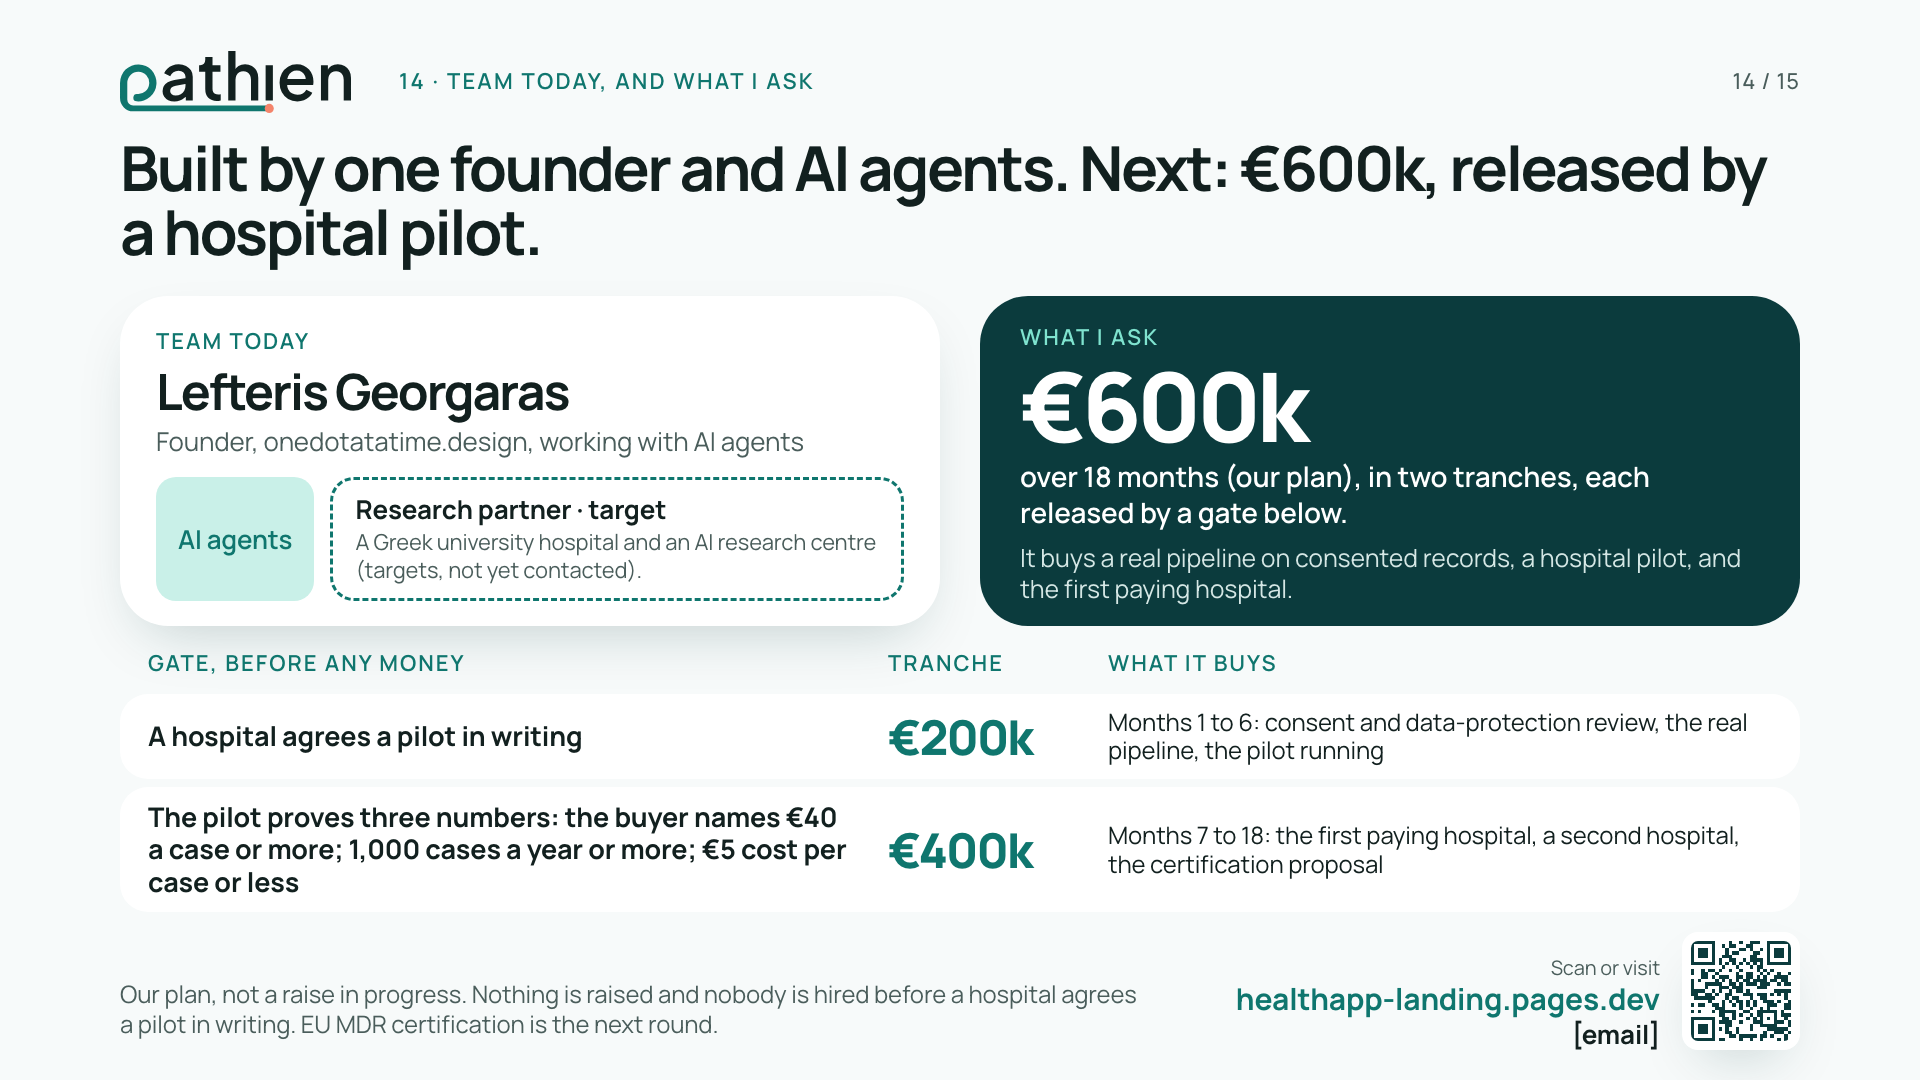
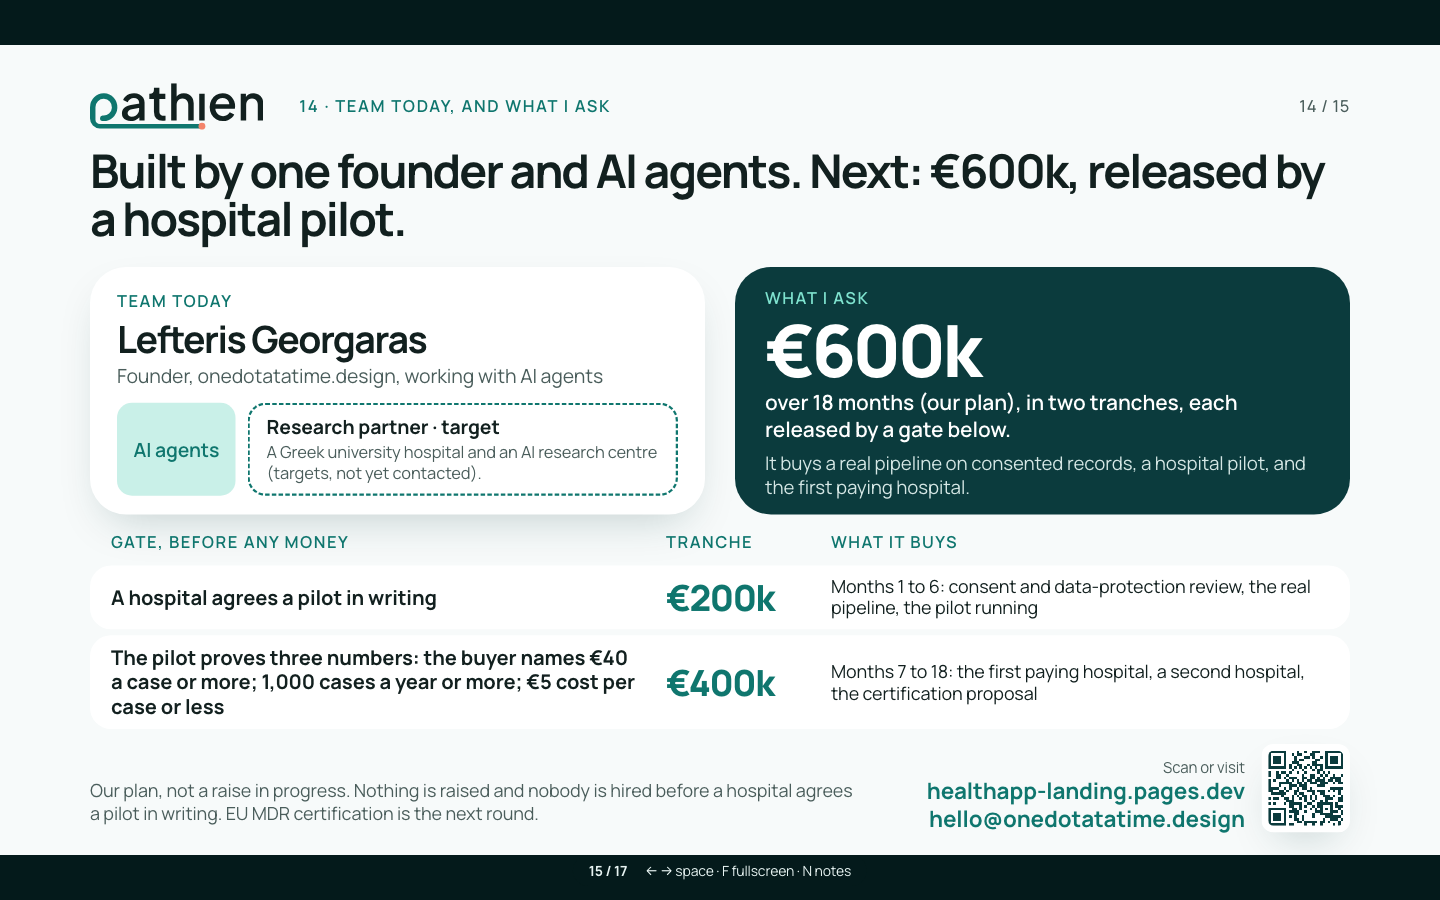
fix(landing): contact email hello@onedotatatime.design replaces [contact] and [email] (MIN-4503, MIN-4462)
Footer and Get updates mailto, slide 14 email as a mailto link, README,
landing copy, deck content, team-and-funding plan contact line,
design-screens updates band, slide-14 PNG re-shot by Pix.

Founder, 2026-11-14: "hello@onedotatatime.design".

Refs MIN-4503, MIN-4462

diff --git a/landing/src/App.tsx b/landing/src/App.tsx
@@ -5,7 +5,7 @@ import { prefersReducedMotion, useSmoothScroll } from './useSmoothScroll';
 import { Screens } from './DemoScreens';
 
 // Swap in one place. Shown as-is until the founder supplies the address; never claim the typed email is stored.
-const CONTACT_EMAIL = "[contact]";
+const CONTACT_EMAIL = "hello@onedotatatime.design";
 
 gsap.registerPlugin(ScrollTrigger);
 
@@ -283,7 +283,7 @@ export default function App() {
         <div className="wrap foot">
           <img src="/brand/pathien-lockup-white.svg" alt="Pathien" style={{ height: 32, width: "auto" }} />
           <span>Built at GenAI Summit Hackathon · Athens · Nov 2026</span>
-          <a className="btn" href="#top">[contact]</a>
+          <a className="btn" href={`mailto:${CONTACT_EMAIL}`}>{CONTACT_EMAIL}</a>
         </div>
       </footer>
     </div>

diff --git a/landing/src/deck/slides.ts b/landing/src/deck/slides.ts
@@ -342,7 +342,7 @@ export const slides: Slide[] = [
         { gate: 'The pilot proves three numbers: the buyer names €40 a case or more; 1,000 cases a year or more; €5 cost per case or less', amount: '€400k', buys: 'Months 7 to 18: the first paying hospital, a second hospital, the certification proposal' },
       ],
     },
-    contact: { label: 'Scan or visit', link: 'healthapp-landing.pages.dev', email: '[email]', qr: QR },
+    contact: { label: 'Scan or visit', link: 'healthapp-landing.pages.dev', email: 'hello@onedotatatime.design', qr: QR },
   },
   {
     id: '15', template: 'table', theme: 'air', no: '15', kicker: 'Why the money', notes: N['15'],

diff --git a/landing/src/deck/templates/TeamAsk.tsx b/landing/src/deck/templates/TeamAsk.tsx
@@ -37,7 +37,7 @@ export function TeamAsk({ s }: { s: TeamAskSlide }) {
         <div>
           <small>{s.contact.label}</small>
           <a href={`https://${s.contact.link}`} target="_blank" rel="noreferrer">{s.contact.link}</a>
-          <b>{s.contact.email}</b>
+          <a href={`mailto:${s.contact.email}`}>{s.contact.email}</a>
         </div>
         <img src={s.contact.qr} alt={`QR code to ${s.contact.link}`} />
       </div>

diff --git a/docs/landing/design-screens.md b/docs/landing/design-screens.md
@@ -20,7 +20,7 @@ Founder 2026-11-14: "More abstract demo screens at 'See it in action' and more c
 - **Nav** (white pill): links How it works / Who it's for / Under the hood / Roadmap collapse into the menu on <1024. Add text links "For patients" (-> `#who-patient`) and "For doctors" (-> `#who-doctor`), ink-soft 15px/500, hover ink plus a 2px mint underline (offset 6px). "Get updates" is a mint pill (replaces "Get in touch"; -> `#updates`), 44px tall. Mobile menu: all links plus the pill full width.
 - **Hero**: row, gap 12px: primary mint "See how it works" (-> `#how`, with an arrow dot), then two ghost pills "For patients" and "For doctors". At 375 the primary is full width and the ghosts sit on one row of two (each 50%).
 - **Who cards**: a pill at the bottom of each overlay chip: patient card "For patients", doctor card "For doctors" (small primary, 40px). Targets are `#updates` with `?for=patient|doctor` in the mailto subject.
-- **Updates band** (id `updates`, full width, before footer, bg mist, radius 32 inner card on white at 1360 max, padding 64/24): h2 title (section scale), line (ink-soft 18px), then a form row, max 560px: pill input (white, 1px ink/15 border, 56px, padding 0 24, placeholder ink-soft) with the button inside the right end (mint, 44px). The button opens `mailto:[contact]?subject=Get%20updates` (placeholder `[contact]`, Anna/Back to fill). The input value is appended to the body (`&body=`). No backend. A 13px note: "No account. No spam." only if Anna supplies it. At 375, stacked, the button full width.
+- **Updates band** (id `updates`, full width, before footer, bg mist, radius 32 inner card on white at 1360 max, padding 64/24): h2 title (section scale), line (ink-soft 18px), then a form row, max 560px: pill input (white, 1px ink/15 border, 56px, padding 0 24, placeholder ink-soft) with the button inside the right end (mint, 44px). The button opens `mailto:hello@onedotatatime.design?subject=Get%20updates` (founder, 2026-11-14). The input value is appended to the body (`&body=`). No backend. A 13px note: "No account. No spam." only if Anna supplies it. At 375, stacked, the button full width.
 
 ## 3. Button styles (one `.btn` family, height 52px, padding 0 28px, radius 999, Manrope 600 16px, transition .2s)
 - **Primary**: bg mint #7FE3CF, text ink #12201F. Hover: bg #6FD8C2, translateY(-1px), shadow 0 10px 24px -10px rgba(15,118,110,.5). Active: translateY(0).

diff --git a/docs/landing/copy.md b/docs/landing/copy.md
@@ -108,11 +108,11 @@ Your health history is scattered across paper, drawers and different doctors' of
 
 - Pathien
 - Built at GenAI Summit Hackathon · Athens · Nov 2026
-- [contact]
+- hello@onedotatatime.design
 
 ## Notes for Pix and Ren
 
-- `[contact]`: founder to supply.
+- `hello@onedotatatime.design`: supplied by the founder, 2026-11-14.
 - Roadmap items must be visibly labelled "Future" (chip or muted style); nothing above the roadmap is future.
 - Left out on purpose: any numbers, testimonials, "possible causes" or diagnosis claims.
 
@@ -174,7 +174,7 @@ The flag shows only the label and the printed range. No colour-coded meaning, no
 |---|---|---|---|
 | `cta-patients` | For patients | Scrolls to the patient card in `who` | Nav, hero (secondary link) |
 | `cta-doctors` | For doctors | Scrolls to the doctor card in `who` | Nav, hero (secondary link) |
-| `cta-updates` | Get updates | Opens `mailto:[contact]?subject=Get updates` | Nav (button, replaces "Get in touch"), footer band, small link at the end of each `who` card |
+| `cta-updates` | Get updates | Opens `mailto:hello@onedotatatime.design?subject=Get updates` | Nav (button, replaces "Get in touch"), footer band, small link at the end of each `who` card |
 
 **Footer band (`cta-updates`):**
 - **headline:** Hackathon prototype. Hear when we pilot.
@@ -182,7 +182,7 @@ The flag shows only the label and the printed range. No colour-coded meaning, no
 - **button:** Get updates
 
 Notes
-- The update form has no backend yet. It must be a `mailto:[contact]` link, nothing stored. If Ren fills the typed address into the mail body, fine; otherwise drop the input and keep the button, so nothing implies we collect it.
+- The update form has no backend yet. It must be a `mailto:hello@onedotatatime.design` link, nothing stored. If Ren fills the typed address into the mail body, fine; otherwise drop the input and keep the button, so nothing implies we collect it.
 - The nav "Get in touch" label is replaced by "Get updates".
 - Hero keeps "See how it works" as primary; the two role links sit beside it.
 - Screen microcopy is only what the demo shows. If a screen is not built by launch, drop it rather than fake it.

diff --git a/docs/deck/deck-content.md b/docs/deck/deck-content.md
@@ -438,7 +438,7 @@ Four hires and one research partner. Two build, two sell, and the partner checks
 
 **Footer, required:** \* Our plan. Every cost is an assumption at Athens rates, with employer contributions. Sell = business development €86.7k + marketing €45.7k + pilots and go-to-market €36.0k. Research partner: months 4 to 15.
 
-**Contact line** (bottom of the slide, unchanged from v3): `[email]` · **healthapp-landing.pages.dev** (live). The brand domain pathien.health is chosen but not registered (brand check, 14 Nov); it goes on the slide only once it resolves.
+**Contact line** (bottom of the slide, unchanged from v3): `hello@onedotatatime.design` · **healthapp-landing.pages.dev** (live). The brand domain pathien.health is chosen but not registered (brand check, 14 Nov); it goes on the slide only once it resolves.
 
 **Visual note for Pix:** Table 2 as one horizontal bar in four parts; "Sell" carries the one accent. "Assumption" and "our plan" at the same size as the numbers. No red. The DNA-shaped QR in a corner, pointing to https://healthapp-landing.pages.dev (live; the founder approves the link before print), as in v3.
 

diff --git a/docs/business/team-and-funding-plan.md b/docs/business/team-and-funding-plan.md
@@ -346,7 +346,7 @@ Four hires and one research partner. Two build, two sell, and the partner checks
 
 **Speaker notes (~20 s):** "Why this amount. Four people: an engineer and an ML engineer to build it and make the reading accurate and cheap, business development and marketing to sell it. Twenty-eight percent goes to selling. A university hospital checks the work with clinicians. And today: if you know a hospital that treats patients from abroad, or a doctor who would try the doctor view, come and find me. Thank you."
 
-**Contact line** (slide 15, bottom): unchanged from v3 (`[email]` · healthapp-landing.pages.dev).
+**Contact line** (slide 15, bottom): `hello@onedotatatime.design` · healthapp-landing.pages.dev (email: founder, 2026-11-14).
 
 **Moved off the slides:** v1's non-money asks (a clinical champion pair, introductions, a regulatory adviser) are now one sentence in slide 15's speaker notes, so the slide keeps to the founder's three parts.
 

diff --git a/landing/README.md b/landing/README.md
@@ -5,4 +5,4 @@ One-page showcase. Vite + React + Lenis + React Bits (copied in `src/components/
 - Dev: `npm install && npm run dev` (http://localhost:5173)
 - Build: `npm run build` (output in `dist/`)
 - Images: drop `hero.webp`, `how-1.webp`, `how-2.webp`, `how-3.webp`, `og.png` into `public/img/`. Until then a calm placeholder block shows. Sizes and prompts: `docs/landing/design-spec.md`.
-- Footer `[name]` and `[contact]` are placeholders in `src/App.tsx`.
+- Footer `[name]` is a placeholder in `src/App.tsx`.
